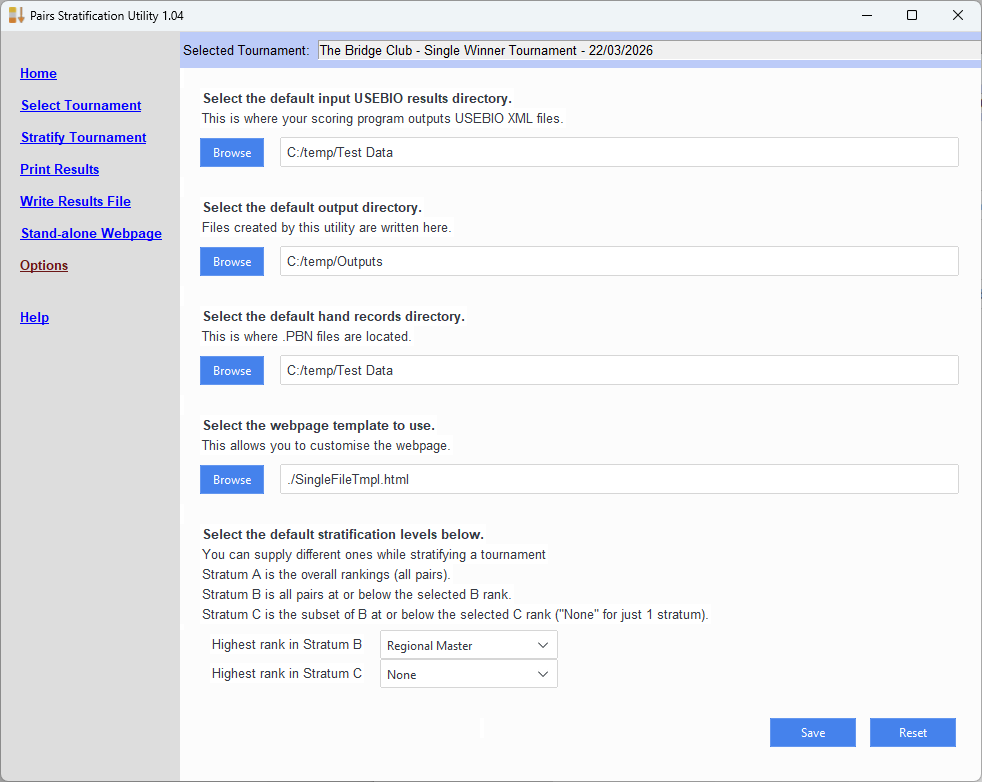
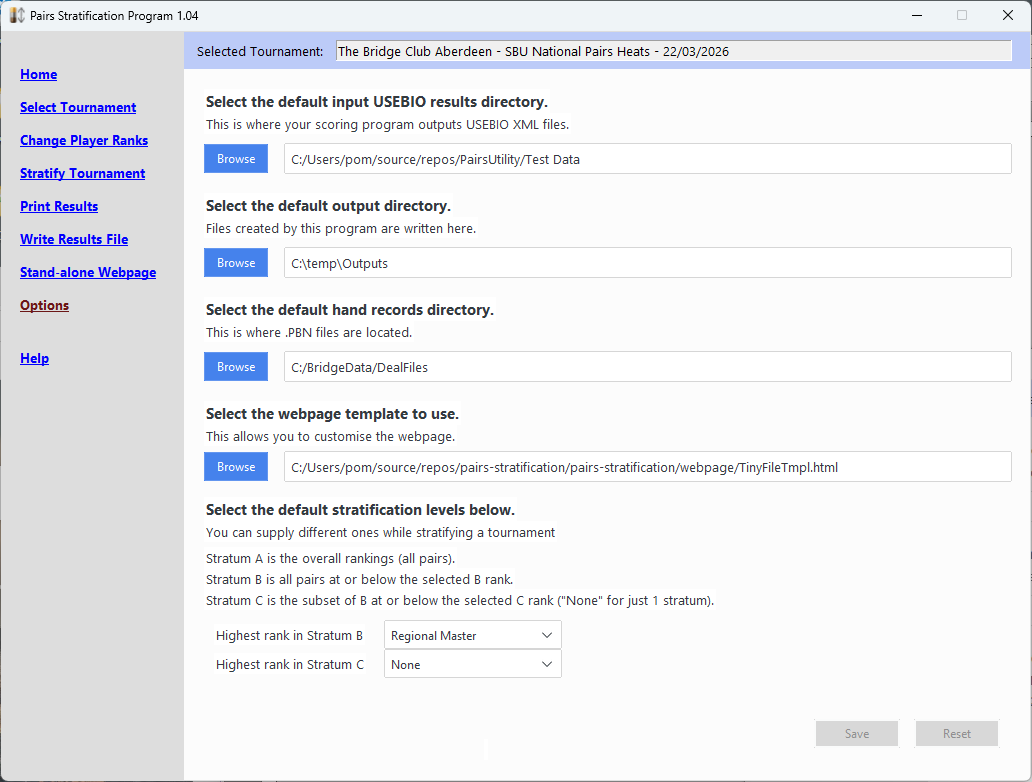
Updated help files

diff --git a/helpdocs/docs/userif.md b/helpdocs/docs/userif.md
@@ -33,7 +33,9 @@ When you select a function from the menu, the information pane will change to sh
 
 The Select Tournament function is the one you want to start with.
 
-This is where you select the USEBIO file (output from your scoring program) that you wish to use. You can use the Browse button to interactively choose the file, or just type the file name into the field next to the button.
+This is where you select the USEBIO file (output from your scoring program) that you wish to use.
+
+You can use the Browse button to interactively choose the file, or just type the file name into the field next to the button.
 
 </div>
 </div>
@@ -49,9 +51,42 @@ Once a file has been chosen, the tournament name will be displayed at the top an
 
 Note that the tournament name is displayed at the top of the information pane and will remain there as you navigate to other functions.
 
+Once a file has been selected, the Next button at the lower right is enabled.
+
+**The Next and Back buttons provide you with a way to navigate through the stages of stratification instead of cicking the menu, although you
+can do that if you choose**.
 </div>
 </div>
 
+<div class="grid" markdown>
+<div markdown>
+
+### Change Player Ranks
+<div markdown>
+![Change Player Ranks](chgranks.png){ align=right width="400" }
+</div>
+Use the Change Player Ranks function to modify the assigned ranks to each pair.
+
+Each pair has the rank that will be used for stratification assigned to them automatically. Partners of differing ranks will be assigned
+the highest rank in the partnership.
+
+Each pair is listed with both their pair number and names, next to the rank they have been assigned. Click on the rank next to the pair
+to open up a list of the ranks and choose a different one.
+</div>
+</div>
+<div class="grid" markdown>
+<div markdown>
+
+### Changed Ranks
+<div markdown>
+![Changed Rank List](chgrankslists.png){ align=right width="94" }
+</div>
+When you change a pair's ranking, the ranking is displayed in a different colour and an icon appears to the right of the rank to allow
+you to reset it to the automatically determined value, should you change your mind.
+
+The rankings you set up here are those used for stratification.
+</div>
+</div>
 <div class="grid" markdown>
 <div markdown>
 
@@ -78,9 +113,9 @@ This presents you with two "sliders", allowing you to select the levels at which
 At the left are the masterpoint rank text labels. These are color coded as follows:
 
 * Grey - Masterpoint ranks below the lowest pair rank and above the highest pair rank that played in the tournament are grey. You cannot move the sliders to these ranks.
-* Black - These ranks are only included in the overall results (stratum A) and represent all ranks above those placed in stratum B or C. If you set the stratification levels to the minimum, all the labels would be black and there would be no stratification to be done.
-* Red - Stratum B.
-* Green - Stratum C
+* Red - These ranks are only included in the overall results (stratum A) and represent all ranks above those placed in stratum B or C. If you set the stratification levels to the minimum, all the labels would be black and there would be no stratification to be done.
+* Green - Stratum B.
+* Blue - Stratum C
 
 As you move the strtaum B and C sliders, the labels change colour to indicate which rankes are in which stratum.
 
@@ -104,7 +139,7 @@ This section displays the ranks of the highest and lowest ranked pair competing 
 
 ### Stratification Split
 <div markdown>
-![Strat Split](stratsplit.png){ align=right width="262" }
+![Strat Split](stratsplit.png){ align=right width="292" }
 </div>
 This shows the number of pairs in each stratum. As you move the sliders, the numbers here will change. Two-winner events have entries for both N/S and E/W.
 
@@ -120,9 +155,9 @@ The lower strata are always included in higher strata, so the pairs in Stratum C
 
 ### Stratification Results
 <div markdown>
-![Strat Results](stratresults.png){ align=right width="186" }
+![Strat Results](stratresults.png){ align=right width="234" }
 </div>
-After stratification, this shows the number of masterpoints awarded in to pairs of each stratum rank. So, in this case, 105 masterpoints were awarded to pairs that are stratum A pairs (i.e., do not appear in the lower strata), no masterpoints were awarded to stratum B pairs and 18 masterpoints awarded to stratum C pairs.
+After stratification, this shows the number of masterpoints awarded in to pairs of each stratum rank. So, in this case, 105 masterpoints were awarded to pairs that are stratum A pairs (i.e., do not appear in the lower strata), 12 masterpoints were awarded to stratum B pairs and no masterpoints awarded to stratum C pairs.
 
 Warning messages will be displayed below the results, in orange, as you move the sliders and the selected ranks are unsuitable for stratifying. For example, if there are too few pairs in the lowest stratum to award masterpoints, a message to this effect will appear.
 

diff --git a/helpdocs/docs/index.md b/helpdocs/docs/index.md
@@ -8,7 +8,7 @@ The results from your scoring program must be in a USEBIO format file. USEBIO st
 This program reads the USEBIO file produced by your scoring program and can perform the following functions:
 
 * Allow you to stratify the pairs tournament. Stratification is explained later.
-* Produce a Portable Document Format (PDF) file of the results that can be printed for display on your club notice board.
+* Produce a Portable Document Format (PDF) file of the results that can be printed for display on your club notice board. This is also useful as an on-screen display of the results of stratification before uploading.
 * Produce a new USEBIO file that contains stratified awards for upload to MEMPAD or other websites.
 * Produce a stand-alone results webpage, intended for clubs that have their own website (as distinct from using a hosted system, like BridgeWebs).
 

diff --git a/helpdocs/docs/stratification.md b/helpdocs/docs/stratification.md
@@ -63,11 +63,11 @@ As mentioned earlier, the scale of awards in a stratified tournament is reduced 
 
 This means that the total masterpoints awarded to a stratified event may be slightly larger or smaller than before stratification, but not significantly so.
 
-At the present time, the program only awards LOCAL points, according to the scales defined in the SBU Masterpoints and Licensing Handbook.
+The program awards masterpoints of the same type as the original (input) USEBIO file and works with Club, Area, District and National scales.
 
 ### Awards Scales
 
-When an event is stratified, the awards are modified as follows:
+As mentioned earlier, when an event is stratified the awards are slightly reduced. The tables below show the effect on Club scales:
 
 #### Single winner events
 <table>
